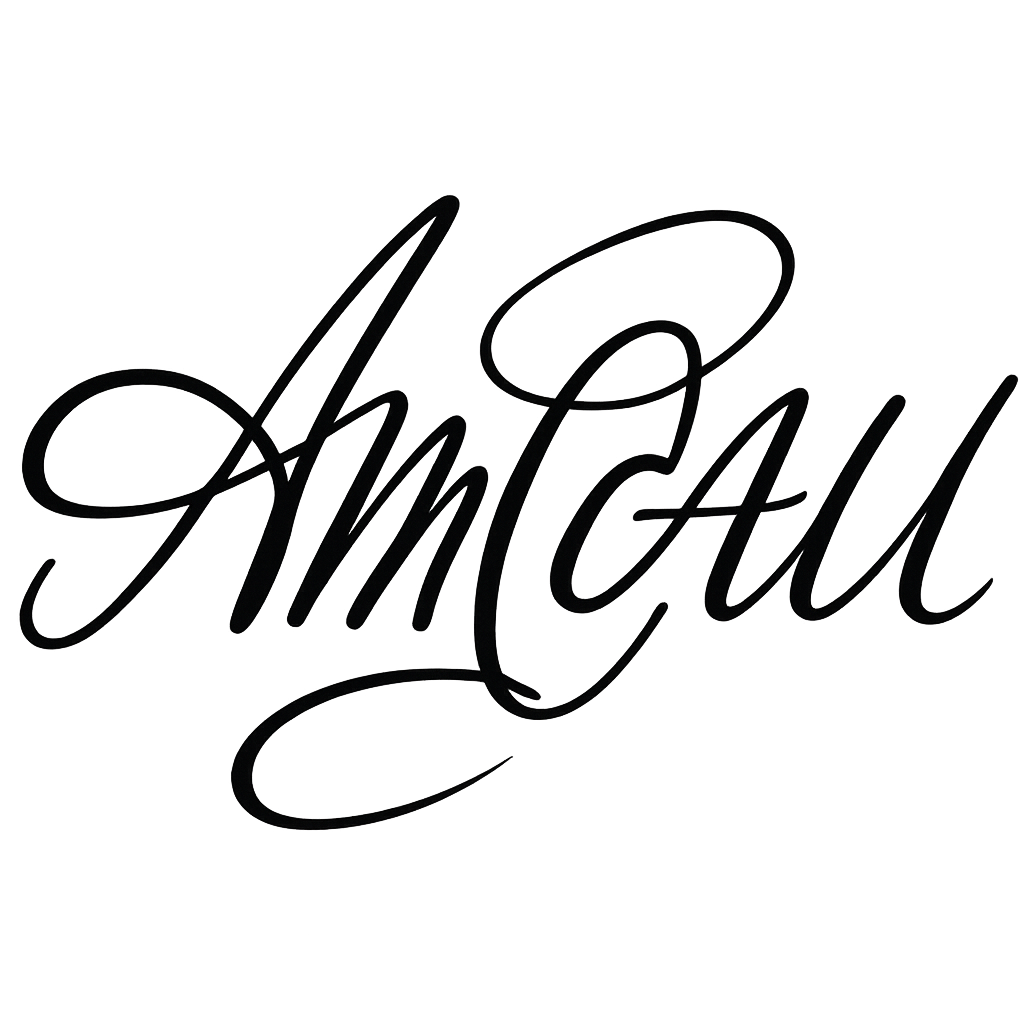
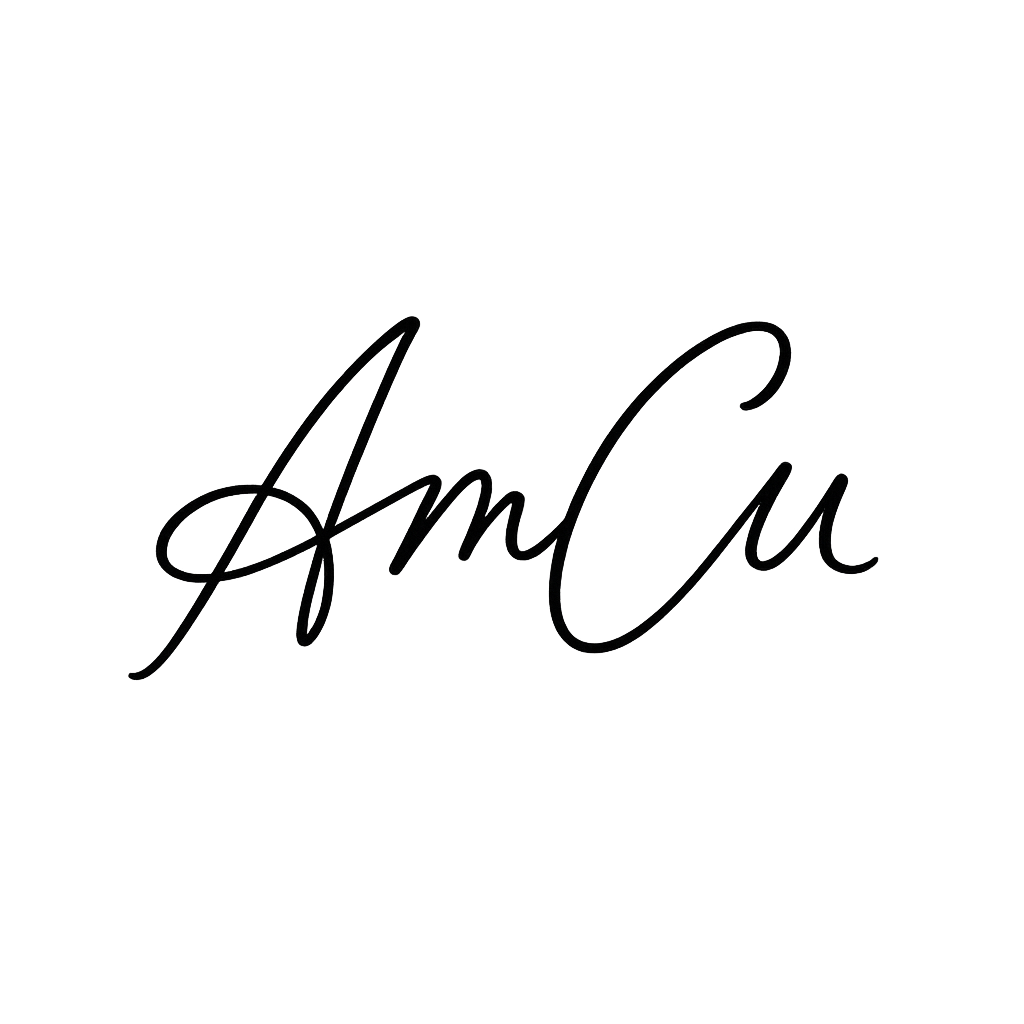
updates - backgrounds, signature

Changed region(s): [[0.0, 0.1875, 1.0, 0.8125], [0.9375, 0.5625, 0.9688, 0.5938]]

diff --git a/assets/css/style.css b/assets/css/style.css
@@ -1,3 +1,3 @@
 @import url("https://fonts.googleapis.com/css2?family=Reenie+Beanie&family=Special+Elite&display=swap");
 
-/*! tailwindcss v3.4.1 | MIT License | https://tailwindcss.com*/*,:after,:before{box-sizing:border-box;border:0 solid #e5e7eb}:after,:before{--tw-content:""}:host,html{line-height:1.5;-webkit-text-size-adjust:100%;-moz-tab-size:4;-o-tab-size:4;tab-size:4;font-family:ui-sans-serif,system-ui,sans-serif,Apple Color Emoji,Segoe UI Emoji,Segoe UI Symbol,Noto Color Emoji;font-feature-settings:normal;font-variation-settings:normal;-webkit-tap-highlight-color:transparent}body{margin:0;line-height:inherit}hr{height:0;color:inherit;border-top-width:1px}abbr:where([title]){-webkit-text-decoration:underline dotted;text-decoration:underline dotted}h1,h2,h3,h4,h5,h6{font-size:inherit;font-weight:inherit}a{color:inherit;text-decoration:inherit}b,strong{font-weight:bolder}code,kbd,pre,samp{font-family:ui-monospace,SFMono-Regular,Menlo,Monaco,Consolas,Liberation Mono,Courier New,monospace;font-feature-settings:normal;font-variation-settings:normal;font-size:1em}small{font-size:80%}sub,sup{font-size:75%;line-height:0;position:relative;vertical-align:initial}sub{bottom:-.25em}sup{top:-.5em}table{text-indent:0;border-color:inherit;border-collapse:collapse}button,input,optgroup,select,textarea{font-family:inherit;font-feature-settings:inherit;font-variation-settings:inherit;font-size:100%;font-weight:inherit;line-height:inherit;color:inherit;margin:0;padding:0}button,select{text-transform:none}[type=button],[type=reset],[type=submit],button{-webkit-appearance:button;background-color:initial;background-image:none}:-moz-focusring{outline:auto}:-moz-ui-invalid{box-shadow:none}progress{vertical-align:initial}::-webkit-inner-spin-button,::-webkit-outer-spin-button{height:auto}[type=search]{-webkit-appearance:textfield;outline-offset:-2px}::-webkit-search-decoration{-webkit-appearance:none}::-webkit-file-upload-button{-webkit-appearance:button;font:inherit}summary{display:list-item}blockquote,dd,dl,figure,h1,h2,h3,h4,h5,h6,hr,p,pre{margin:0}fieldset{margin:0}fieldset,legend{padding:0}menu,ol,ul{list-style:none;margin:0;padding:0}dialog{padding:0}textarea{resize:vertical}input::-moz-placeholder,textarea::-moz-placeholder{opacity:1;color:#9ca3af}input::placeholder,textarea::placeholder{opacity:1;color:#9ca3af}[role=button],button{cursor:pointer}:disabled{cursor:default}audio,canvas,embed,iframe,img,object,svg,video{display:block;vertical-align:middle}img,video{max-width:100%;height:auto}[hidden]{display:none}body{display:flex;min-height:100vh;width:100%;align-items:center;justify-content:center;background-size:cover;background-position:50%;background-repeat:no-repeat;--tw-text-opacity:1;color:rgb(0 0 0/var(--tw-text-opacity));background-image:url(/assets/images/backgrounds/white_board.jpg);font-family:Special Elite,monospace}*,::backdrop,:after,:before{--tw-border-spacing-x:0;--tw-border-spacing-y:0;--tw-translate-x:0;--tw-translate-y:0;--tw-rotate:0;--tw-skew-x:0;--tw-skew-y:0;--tw-scale-x:1;--tw-scale-y:1;--tw-pan-x: ;--tw-pan-y: ;--tw-pinch-zoom: ;--tw-scroll-snap-strictness:proximity;--tw-gradient-from-position: ;--tw-gradient-via-position: ;--tw-gradient-to-position: ;--tw-ordinal: ;--tw-slashed-zero: ;--tw-numeric-figure: ;--tw-numeric-spacing: ;--tw-numeric-fraction: ;--tw-ring-inset: ;--tw-ring-offset-width:0px;--tw-ring-offset-color:#fff;--tw-ring-color:#3b82f680;--tw-ring-offset-shadow:0 0 #0000;--tw-ring-shadow:0 0 #0000;--tw-shadow:0 0 #0000;--tw-shadow-colored:0 0 #0000;--tw-blur: ;--tw-brightness: ;--tw-contrast: ;--tw-grayscale: ;--tw-hue-rotate: ;--tw-invert: ;--tw-saturate: ;--tw-sepia: ;--tw-drop-shadow: ;--tw-backdrop-blur: ;--tw-backdrop-brightness: ;--tw-backdrop-contrast: ;--tw-backdrop-grayscale: ;--tw-backdrop-hue-rotate: ;--tw-backdrop-invert: ;--tw-backdrop-opacity: ;--tw-backdrop-saturate: ;--tw-backdrop-sepia: }.font-handwritten{font-family:Reenie Beanie,cursive}.font-typewriter{font-family:Special Elite,monospace}.fixed{position:fixed}.absolute{position:absolute}.relative{position:relative}.-top-12{top:-3rem}.bottom-6{bottom:1.5rem}.left-1\/2{left:50%}.left-4{left:1rem}.left-6{left:1.5rem}.right-6{right:1.5rem}.top-10{top:2.5rem}.top-6{top:1.5rem}.z-50{z-index:50}.mb-1{margin-bottom:.25rem}.mb-2{margin-bottom:.5rem}.ml-1{margin-left:.25rem}.mt-2{margin-top:.5rem}.flex{display:flex}.hidden{display:none}.h-16{height:4rem}.h-4{height:1rem}.min-h-screen{min-height:100vh}.w-full{width:100%}.max-w-4xl{max-width:56rem}.-translate-x-1\/2{--tw-translate-x:-50%}.-translate-x-1\/2,.transform{transform:translate(var(--tw-translate-x),var(--tw-translate-y)) rotate(var(--tw-rotate)) skewX(var(--tw-skew-x)) skewY(var(--tw-skew-y)) scaleX(var(--tw-scale-x)) scaleY(var(--tw-scale-y))}.cursor-pointer{cursor:pointer}.flex-wrap{flex-wrap:wrap}.items-start{align-items:flex-start}.items-center{align-items:center}.justify-center{justify-content:center}.justify-between{justify-content:space-between}.gap-4{gap:1rem}.overflow-hidden{overflow:hidden}.whitespace-nowrap{white-space:nowrap}.bg-cover{background-size:cover}.bg-center{background-position:50%}.bg-no-repeat{background-repeat:no-repeat}.px-6{padding-left:1.5rem;padding-right:1.5rem}.pr-2{padding-right:.5rem}.text-center{text-align:center}.font-handwritten{font-family:Reenie Beanie,cursive}.font-typewriter{font-family:Special Elite,monospace}.text-3xl{font-size:1.875rem;line-height:2.25rem}.text-4xl{font-size:2.25rem;line-height:2.5rem}.text-sm{font-size:.875rem;line-height:1.25rem}.text-xs{font-size:.75rem;line-height:1rem}.font-extrabold{font-weight:800}.text-black{--tw-text-opacity:1;color:rgb(0 0 0/var(--tw-text-opacity))}.text-red-700{--tw-text-opacity:1;color:rgb(185 28 28/var(--tw-text-opacity))}.text-red-800{--tw-text-opacity:1;color:rgb(153 27 27/var(--tw-text-opacity))}.transition-transform{transition-property:transform;transition-timing-function:cubic-bezier(.4,0,.2,1);transition-duration:.15s}*{user-select:none;-webkit-user-select:none;-moz-user-select:none;-ms-user-select:none}.hover\:scale-110:hover{--tw-scale-x:1.1;--tw-scale-y:1.1;transform:translate(var(--tw-translate-x),var(--tw-translate-y)) rotate(var(--tw-rotate)) skewX(var(--tw-skew-x)) skewY(var(--tw-skew-y)) scaleX(var(--tw-scale-x)) scaleY(var(--tw-scale-y))}@media (min-width:640px){.sm\:block{display:block}.sm\:h-20{height:5rem}.sm\:h-5{height:1.25rem}.sm\:rotate-\[-3deg\]{--tw-rotate:-3deg;transform:translate(var(--tw-translate-x),var(--tw-translate-y)) rotate(var(--tw-rotate)) skewX(var(--tw-skew-x)) skewY(var(--tw-skew-y)) scaleX(var(--tw-scale-x)) scaleY(var(--tw-scale-y))}.sm\:px-8{padding-left:2rem;padding-right:2rem}.sm\:pr-6{padding-right:1.5rem}.sm\:text-left{text-align:left}.sm\:text-3xl{font-size:1.875rem;line-height:2.25rem}.sm\:text-4xl{font-size:2.25rem;line-height:2.5rem}.sm\:text-base{font-size:1rem;line-height:1.5rem}.sm\:text-sm{font-size:.875rem;line-height:1.25rem}}@media (min-width:768px){.md\:px-16{padding-left:4rem;padding-right:4rem}.md\:text-5xl{font-size:3rem;line-height:1}.md\:text-base{font-size:1rem;line-height:1.5rem}}
+/*! tailwindcss v3.4.1 | MIT License | https://tailwindcss.com*/*,:after,:before{box-sizing:border-box;border:0 solid #e5e7eb}:after,:before{--tw-content:""}:host,html{line-height:1.5;-webkit-text-size-adjust:100%;-moz-tab-size:4;-o-tab-size:4;tab-size:4;font-family:ui-sans-serif,system-ui,sans-serif,Apple Color Emoji,Segoe UI Emoji,Segoe UI Symbol,Noto Color Emoji;font-feature-settings:normal;font-variation-settings:normal;-webkit-tap-highlight-color:transparent}body{margin:0;line-height:inherit}hr{height:0;color:inherit;border-top-width:1px}abbr:where([title]){-webkit-text-decoration:underline dotted;text-decoration:underline dotted}h1,h2,h3,h4,h5,h6{font-size:inherit;font-weight:inherit}a{color:inherit;text-decoration:inherit}b,strong{font-weight:bolder}code,kbd,pre,samp{font-family:ui-monospace,SFMono-Regular,Menlo,Monaco,Consolas,Liberation Mono,Courier New,monospace;font-feature-settings:normal;font-variation-settings:normal;font-size:1em}small{font-size:80%}sub,sup{font-size:75%;line-height:0;position:relative;vertical-align:initial}sub{bottom:-.25em}sup{top:-.5em}table{text-indent:0;border-color:inherit;border-collapse:collapse}button,input,optgroup,select,textarea{font-family:inherit;font-feature-settings:inherit;font-variation-settings:inherit;font-size:100%;font-weight:inherit;line-height:inherit;color:inherit;margin:0;padding:0}button,select{text-transform:none}[type=button],[type=reset],[type=submit],button{-webkit-appearance:button;background-color:initial;background-image:none}:-moz-focusring{outline:auto}:-moz-ui-invalid{box-shadow:none}progress{vertical-align:initial}::-webkit-inner-spin-button,::-webkit-outer-spin-button{height:auto}[type=search]{-webkit-appearance:textfield;outline-offset:-2px}::-webkit-search-decoration{-webkit-appearance:none}::-webkit-file-upload-button{-webkit-appearance:button;font:inherit}summary{display:list-item}blockquote,dd,dl,figure,h1,h2,h3,h4,h5,h6,hr,p,pre{margin:0}fieldset{margin:0}fieldset,legend{padding:0}menu,ol,ul{list-style:none;margin:0;padding:0}dialog{padding:0}textarea{resize:vertical}input::-moz-placeholder,textarea::-moz-placeholder{opacity:1;color:#9ca3af}input::placeholder,textarea::placeholder{opacity:1;color:#9ca3af}[role=button],button{cursor:pointer}:disabled{cursor:default}audio,canvas,embed,iframe,img,object,svg,video{display:block;vertical-align:middle}img,video{max-width:100%;height:auto}[hidden]{display:none}body{display:flex;min-height:100vh;width:100%;align-items:center;justify-content:center;background-size:cover;background-position:50%;background-repeat:no-repeat;--tw-text-opacity:1;color:rgb(0 0 0/var(--tw-text-opacity));background-image:url(/assets/images/backgrounds/b1.png);font-family:Special Elite,monospace}*,::backdrop,:after,:before{--tw-border-spacing-x:0;--tw-border-spacing-y:0;--tw-translate-x:0;--tw-translate-y:0;--tw-rotate:0;--tw-skew-x:0;--tw-skew-y:0;--tw-scale-x:1;--tw-scale-y:1;--tw-pan-x: ;--tw-pan-y: ;--tw-pinch-zoom: ;--tw-scroll-snap-strictness:proximity;--tw-gradient-from-position: ;--tw-gradient-via-position: ;--tw-gradient-to-position: ;--tw-ordinal: ;--tw-slashed-zero: ;--tw-numeric-figure: ;--tw-numeric-spacing: ;--tw-numeric-fraction: ;--tw-ring-inset: ;--tw-ring-offset-width:0px;--tw-ring-offset-color:#fff;--tw-ring-color:#3b82f680;--tw-ring-offset-shadow:0 0 #0000;--tw-ring-shadow:0 0 #0000;--tw-shadow:0 0 #0000;--tw-shadow-colored:0 0 #0000;--tw-blur: ;--tw-brightness: ;--tw-contrast: ;--tw-grayscale: ;--tw-hue-rotate: ;--tw-invert: ;--tw-saturate: ;--tw-sepia: ;--tw-drop-shadow: ;--tw-backdrop-blur: ;--tw-backdrop-brightness: ;--tw-backdrop-contrast: ;--tw-backdrop-grayscale: ;--tw-backdrop-hue-rotate: ;--tw-backdrop-invert: ;--tw-backdrop-opacity: ;--tw-backdrop-saturate: ;--tw-backdrop-sepia: }.font-handwritten{font-family:Reenie Beanie,cursive}.font-typewriter{font-family:Special Elite,monospace}.fixed{position:fixed}.absolute{position:absolute}.relative{position:relative}.-top-12{top:-3rem}.bottom-6{bottom:1.5rem}.left-1\/2{left:50%}.left-4{left:1rem}.left-6{left:1.5rem}.right-6{right:1.5rem}.top-10{top:2.5rem}.top-6{top:1.5rem}.z-50{z-index:50}.mb-1{margin-bottom:.25rem}.mb-2{margin-bottom:.5rem}.ml-1{margin-left:.25rem}.mt-2{margin-top:.5rem}.flex{display:flex}.hidden{display:none}.h-16{height:4rem}.h-4{height:1rem}.min-h-screen{min-height:100vh}.w-full{width:100%}.max-w-4xl{max-width:56rem}.-translate-x-1\/2{--tw-translate-x:-50%}.-translate-x-1\/2,.transform{transform:translate(var(--tw-translate-x),var(--tw-translate-y)) rotate(var(--tw-rotate)) skewX(var(--tw-skew-x)) skewY(var(--tw-skew-y)) scaleX(var(--tw-scale-x)) scaleY(var(--tw-scale-y))}.cursor-pointer{cursor:pointer}.flex-wrap{flex-wrap:wrap}.items-start{align-items:flex-start}.items-center{align-items:center}.justify-center{justify-content:center}.justify-between{justify-content:space-between}.gap-4{gap:1rem}.overflow-hidden{overflow:hidden}.whitespace-nowrap{white-space:nowrap}.bg-cover{background-size:cover}.bg-center{background-position:50%}.bg-no-repeat{background-repeat:no-repeat}.px-6{padding-left:1.5rem;padding-right:1.5rem}.pr-2{padding-right:.5rem}.text-center{text-align:center}.font-handwritten{font-family:Reenie Beanie,cursive}.font-typewriter{font-family:Special Elite,monospace}.text-3xl{font-size:1.875rem;line-height:2.25rem}.text-4xl{font-size:2.25rem;line-height:2.5rem}.text-sm{font-size:.875rem;line-height:1.25rem}.text-xs{font-size:.75rem;line-height:1rem}.font-extrabold{font-weight:800}.text-black{--tw-text-opacity:1;color:rgb(0 0 0/var(--tw-text-opacity))}.text-red-700{--tw-text-opacity:1;color:rgb(185 28 28/var(--tw-text-opacity))}.text-red-800{--tw-text-opacity:1;color:rgb(153 27 27/var(--tw-text-opacity))}.transition-transform{transition-property:transform;transition-timing-function:cubic-bezier(.4,0,.2,1);transition-duration:.15s}*{user-select:none;-webkit-user-select:none;-moz-user-select:none;-ms-user-select:none}.hover\:scale-110:hover{--tw-scale-x:1.1;--tw-scale-y:1.1;transform:translate(var(--tw-translate-x),var(--tw-translate-y)) rotate(var(--tw-rotate)) skewX(var(--tw-skew-x)) skewY(var(--tw-skew-y)) scaleX(var(--tw-scale-x)) scaleY(var(--tw-scale-y))}@media (min-width:640px){.sm\:block{display:block}.sm\:h-20{height:5rem}.sm\:h-5{height:1.25rem}.sm\:rotate-\[-3deg\]{--tw-rotate:-3deg;transform:translate(var(--tw-translate-x),var(--tw-translate-y)) rotate(var(--tw-rotate)) skewX(var(--tw-skew-x)) skewY(var(--tw-skew-y)) scaleX(var(--tw-scale-x)) scaleY(var(--tw-scale-y))}.sm\:px-8{padding-left:2rem;padding-right:2rem}.sm\:pr-6{padding-right:1.5rem}.sm\:text-left{text-align:left}.sm\:text-3xl{font-size:1.875rem;line-height:2.25rem}.sm\:text-4xl{font-size:2.25rem;line-height:2.5rem}.sm\:text-base{font-size:1rem;line-height:1.5rem}.sm\:text-sm{font-size:.875rem;line-height:1.25rem}}@media (min-width:768px){.md\:px-16{padding-left:4rem;padding-right:4rem}.md\:text-5xl{font-size:3rem;line-height:1}.md\:text-base{font-size:1rem;line-height:1.5rem}}

diff --git a/index.html b/index.html
@@ -4,13 +4,23 @@
     <meta charset="UTF-8" />
     <meta name="viewport" content="width=device-width, initial-scale=1.0" />
     <title>Chioma Audrey ⟡ itsjustchioma</title>
+
+    <!-- Preload fonts early to avoid flashes -->
+    <link rel="preconnect" href="https://fonts.googleapis.com">
+    <link rel="preconnect" href="https://fonts.gstatic.com" crossorigin>
+    <link href="https://fonts.googleapis.com/css2?family=Reenie+Beanie&family=Special+Elite&display=swap" rel="stylesheet">
+
+    <!-- Preload background image -->
+    <link rel="preload" as="image" href="assets/images/backgrounds/b1.png" />
+
+    <!-- Your main styles -->
     <link rel="stylesheet" href="assets/css/style.css" />
     <link rel="icon" type="image/png" href="assets/images/ca_logo.png" />
   </head>
 
   <body class="min-h-screen w-full bg-cover bg-center bg-no-repeat text-black overflow-hidden">
     <!-- Home page link -->
-    <a href="/" class="fixed top-6 left-6 z-50 cursor-pointer transition-transform">
+    <a href="/" class="fixed top-6 left-6 z-50 cursor-pointer transition-transform" title="Home">
       <img src="assets/images/sig.png" alt="Chioma Audrey Uche" class="h-16 sm:h-20" />
     </a>
 

diff --git a/src/input.css b/src/input.css
@@ -8,13 +8,13 @@
   user-select: none;
   -webkit-user-select: none;
   -moz-user-select: none;
-  -ms-user-select: none; 
+  -ms-user-select: none;
 }
 
 @layer base {
   body {
     @apply min-h-screen w-full bg-cover bg-no-repeat bg-center flex items-center justify-center text-black;
-    background-image: url('/assets/images/backgrounds/white_board.jpg');
+    background-image: url('/assets/images/backgrounds/b1.png');
     font-family: 'Special Elite', monospace;
   }
 }
